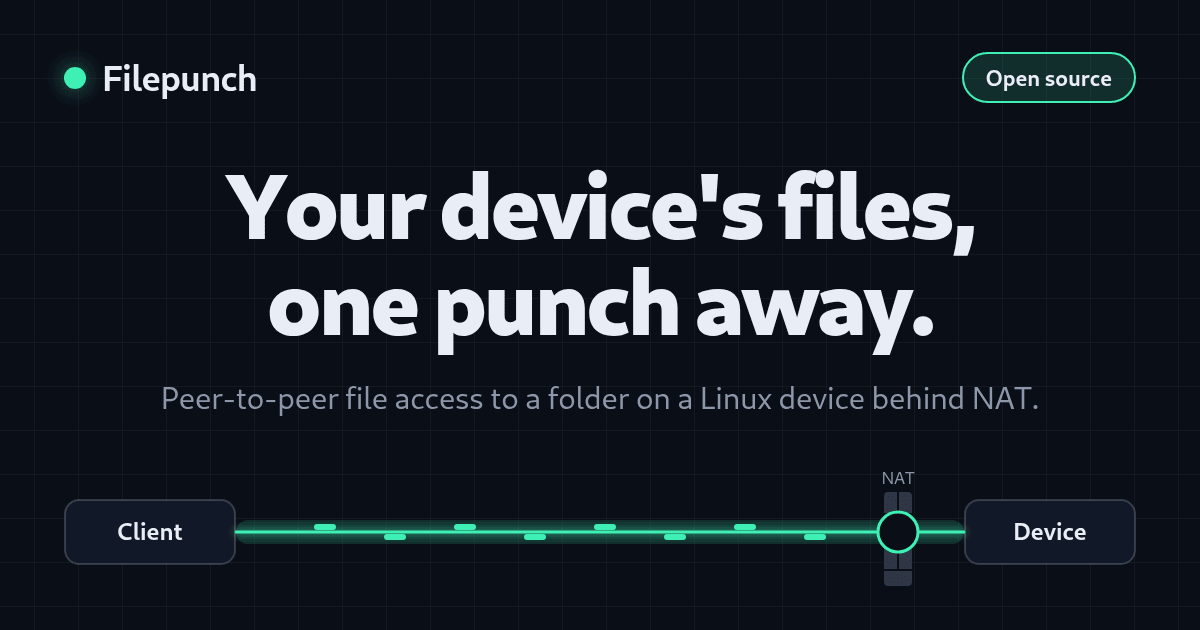
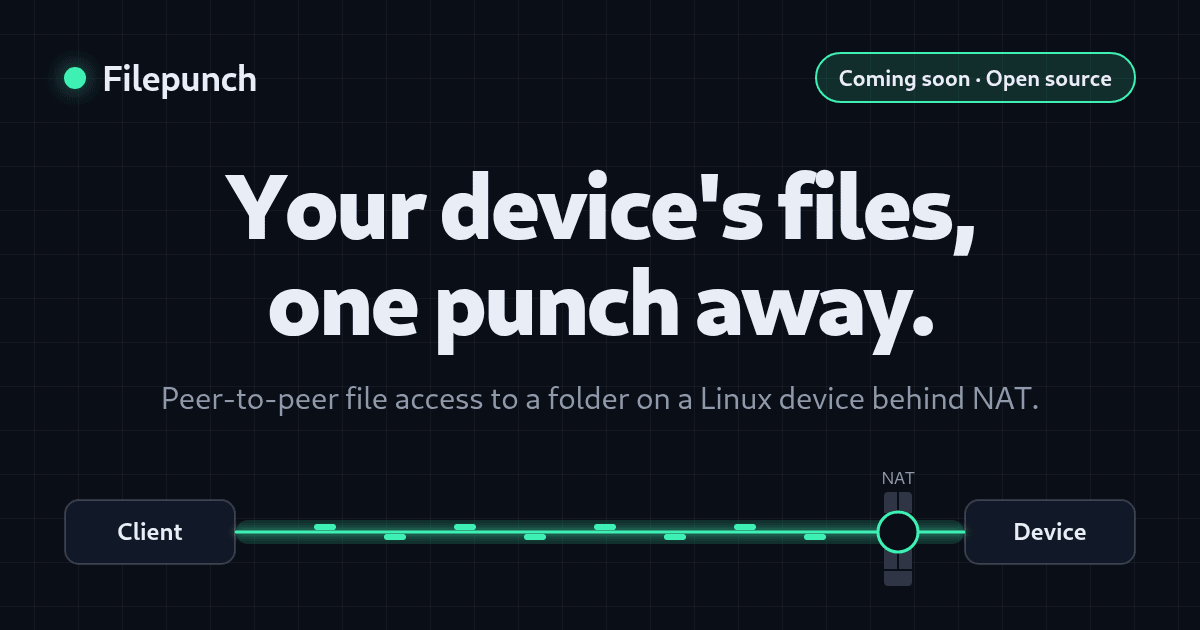
fix: keep "Coming soon" on the social card
The card said only "Open source". The badge above the page title says
"Coming soon · Open source · v0.3.0 on GitHub", and the code is not on
GitHub yet, so the card dropped the qualifier that the page keeps. The
card now says "Coming soon · Open source", and og:image:alt says the
same.

With 32 colors, the new card would have put site/ 180 bytes over the
60 KB budget in README.md. render.sh now draws it with 30 colors. It
looks the same, even zoomed in, and site/ is 59,614 bytes.

README.md and the comment in images/social.html now list the badge
among the words that the card repeats. Item 6 of PROPOSED-WORDING.md
says that dropping "Coming soon" means changing the card too.

GitLab issue 69 in filepunch/filepunch.

Changed region(s): [[0.6783, 0.0603, 0.8325, 0.181]]

diff --git a/images/social.html b/images/social.html
@@ -7,6 +7,11 @@
   Source of site/social.png, the 1200 x 630 image that link previews show.
   render.sh turns it into the PNG with headless Chrome. The colors are the
   dark theme of site/style.css.
+
+  The words repeat the page: the first two parts of the badge above the
+  title, the tagline and the first line of the lead. When one of them
+  changes on the page, change it here and in the og:image:alt line of
+  site/index.html, then run render.sh again.
 -->
 <style>
   :root {
@@ -61,7 +66,7 @@
 <body>
   <div class="top">
     <div class="brand"><span class="dot"></span>Filepunch</div>
-    <div class="pill">Open source</div>
+    <div class="pill">Coming soon &middot; Open source</div>
   </div>
   <main>
     <h1>Your device's files,<br>one punch away.</h1>

diff --git a/site/index.html b/site/index.html
@@ -14,7 +14,7 @@
 <meta property="og:image" content="https://filepunch.dev/social.png">
 <meta property="og:image:width" content="1200">
 <meta property="og:image:height" content="630">
-<meta property="og:image:alt" content="Filepunch. Your device's files, one punch away. Peer-to-peer file access to a folder on a Linux device behind NAT.">
+<meta property="og:image:alt" content="Filepunch. Coming soon. Open source. Your device's files, one punch away. Peer-to-peer file access to a folder on a Linux device behind NAT.">
 <meta name="twitter:card" content="summary_large_image">
 <link rel="stylesheet" href="style.css">
 <link rel="icon" href="favicon.png" sizes="32x32" type="image/png">

diff --git a/README.md b/README.md
@@ -21,7 +21,7 @@ Plain HTML, one stylesheet, no build step, no JavaScript, no external fonts, no 
 
 The wording is drawn from the code repository's `README.md`, `docs/security.md`, `docs/protocol.md`, `docs/signaling.md` and `examples/`. When those change, change the page; the site must not claim anything the docs do not.
 
-Some of the wording appears more than once. The `description` and `og:description` lines in the head of `index.html` repeat the tagline and the lead. `images/social.html` and the `og:image:alt` line repeat the tagline and the first line of the lead. When you change one, change the others.
+Some of the wording appears more than once. The `description` and `og:description` lines in the head of `index.html` repeat the tagline and the lead. The social card (`images/social.html`, drawn into `site/social.png`) and the `og:image:alt` line repeat three things: the tagline, the first line of the lead, and the first two parts of the badge above the title, "Coming soon · Open source". When you change one, change the others. After a change to the card, run `images/render.sh` again (see Images).
 
 ## Link previews
 

diff --git a/PROPOSED-WORDING.md b/PROPOSED-WORDING.md
@@ -49,6 +49,7 @@ Three terms used below:
 - **Now:** "Coming soon · Open source · v0.3.0 on GitHub"
 - **What is true today (2026-10-18):** github.com/filepunch/filepunch is public, but it holds only a one-line README and no tags. The badge's link to the v0.3.0 tag, the "Read the protocol" button and the "Apache-2.0" link in the footer return 404.
 - **Suggested:** keep "Coming soon" until the code and the v0.3.0 tag are on GitHub, then change the badge to "Open source · v0.3.0 on GitHub".
+- **Also change, when "Coming soon" goes:** the social card says "Coming soon · Open source" too. Edit that text in `images/social.html` and in the `og:image:alt` line of `site/index.html` (line 17), then run `sh images/render.sh` to draw `site/social.png` again.
 
 ### 7. Broken sentence (line 163)
 
